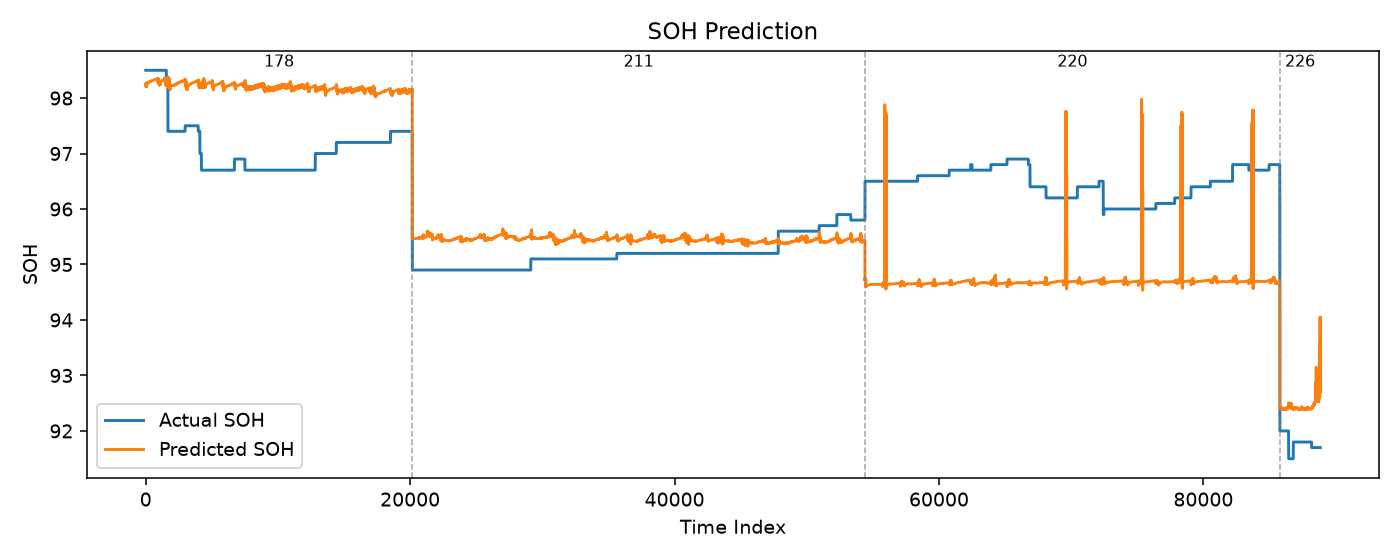
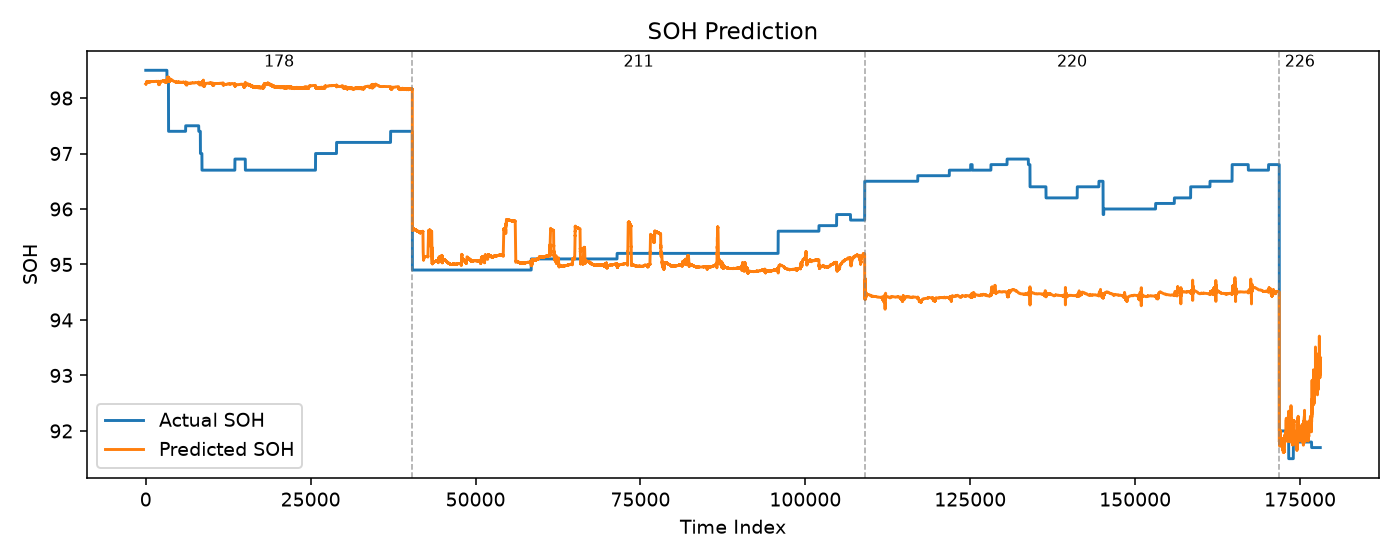
레포트 수정

diff --git a/outputs/Experiment_Report.md b/outputs/Experiment_Report.md
@@ -1,6 +1,7 @@
 # PatchTST Experiment Report
 
-> 실험 비교 중 **Test MAE 기준 best**: `run3` (Best Epoch 8)
+> 실험 비교 중 **Test MAE 기준 best**: `run2_fast` (Best Epoch 8)  
+> 체크포인트: `checkpoints/run2_fast/best_model.pt`
 
 ## Dataset
 - 사용 데이터 : 01241225178.csv.gz, 01241225211.csv.gz, 01241225220.csv.gz, 01241225226.csv.gz
@@ -15,7 +16,7 @@
 - CUDA : 13.0
 - GPU : NVIDIA GB10
 
-## Hyperparameters
+## Hyperparameters (`run2_fast`)
 
 | Parameter | Value |
 |-----------|------|
@@ -30,7 +31,7 @@
 | epochs | 8 |
 | best_epoch | 8 |
 
-## Result
+## Result (`run2_fast`)
 
 > Validation loss 기준 **Best Epoch = 8** (val_loss=0.168447) 체크포인트로 Test 평가.
 
@@ -41,15 +42,15 @@
 | RMSE | 1.235830 |
 | Best Val Loss (scaled MSE) | 0.168447 |
 
-### 실험 비교 (참고)
+### 실험 비교
 
-| 실험 | sample_stride | window_stride | epochs | best_epoch | Test MAE | Test RMSE |
-|------|-------------:|-------------:|-------:|-----------:|---------:|----------:|
-| run2_fast | 10 | 8 | 8 | 8 | 1.036 | 1.236 |
-| **run3 (best)** | **10** | **8** | **8** | **8** | **1.036** | **1.236** |
-| run3_finer | 5 | 4 | 10 | 2 | 1.101 | 1.388 |
+| 실험 | sample_stride | window_stride | epochs | best_epoch | Test MAE | Test RMSE | 비고 |
+|------|-------------:|-------------:|-------:|-----------:|---------:|----------:|------|
+| **run2_fast (best)** | **10** | **8** | **8** | **8** | **1.036** | **1.236** | **최고 성능** |
+| run3_finer | 5 | 4 | 10 | 2 | 1.101 | 1.388 | 세밀 샘플링 |
+| run3 | 5 | 4 | 15 | 3 | 1.101 | 1.356 | lr=5e-4 |
 
-### Epoch별 Loss (`run3`)
+### Epoch별 Loss (`run2_fast`)
 
 | Epoch | train_loss | val_loss |
 |------:|----------:|---------:|
@@ -62,7 +63,7 @@
 | 7 | 0.037912 | 0.211732 |
 | 8 | 0.030380 | 0.168447 **(best)** |
 
-### 차량별 Test 성능 (`run3`)
+### 차량별 Test 성능 (`run2_fast`)
 
 | 차량 ID | MAE | RMSE | n |
 |---------|----:|-----:|--:|
@@ -71,24 +72,24 @@
 | 01241225220 | 1.7712 | 1.7968 | 31381 |
 | 01241225226 | 0.6559 | 0.6865 | 3062 |
 
-## Graphs
+## Graphs (`run2_fast`)
 
 ### Training / Validation Loss
-![training_loss](run3/training_loss.png)
+![training_loss](run2_fast/training_loss.png)
 
 ### SOH Prediction (Actual vs Predicted)
-![prediction](run3/prediction.png)
+![prediction](run2_fast/prediction.png)
 
 ## Observation
 
 ### 좋았던 점
-- Epoch 8에서 validation loss가 최저(0.168)로 떨어졌고, 해당 best checkpoint 기준 Test MAE **1.036** / RMSE **1.236**을 확보함.
-- 차량 `01241225211`은 MAE 0.359로 수준을 비교적 잘 맞춤.
-- 세밀 샘플링(`run3_finer`)보다 기본 설정(`run3`)이 전체 Test 지표에서 더 좋음.
+- `run2_fast`에서 validation loss가 Epoch 8에 최저(0.168)로 떨어졌고, Test MAE **1.036** / RMSE **1.236**을 확보함.
+- 차량 `01241225211`은 MAE 0.359로 상대적으로 잘 맞춤.
+- 세밀 샘플링(`run3`, `run3_finer`)보다 기본 다운샘플 설정(`run2_fast`)이 전체 Test 지표에서 더 좋음.
 
 ### 아쉬웠던 점
-- 차량 `01241225220` MAE 1.771로 전체 성능을 크게 끌어올림 (예측이 실제보다 낮게 평탄화되고 spike도 발생).
-- Epoch 2에서 val_loss가 급등(0.406)하는 등 학습 곡선이 불안정함.
+- 차량 `01241225220` MAE 1.771로 전체 성능을 크게 끌어올림.
+- Epoch 2에서 val_loss가 급등(0.406)하는 등 학습 곡선이 불안정한 구간이 있음.
 - SOH의 stair-step 패턴을 세밀하게 따라가지 못하고 평균 수준에 머무는 구간이 있음.
 
 ### 다음 실험